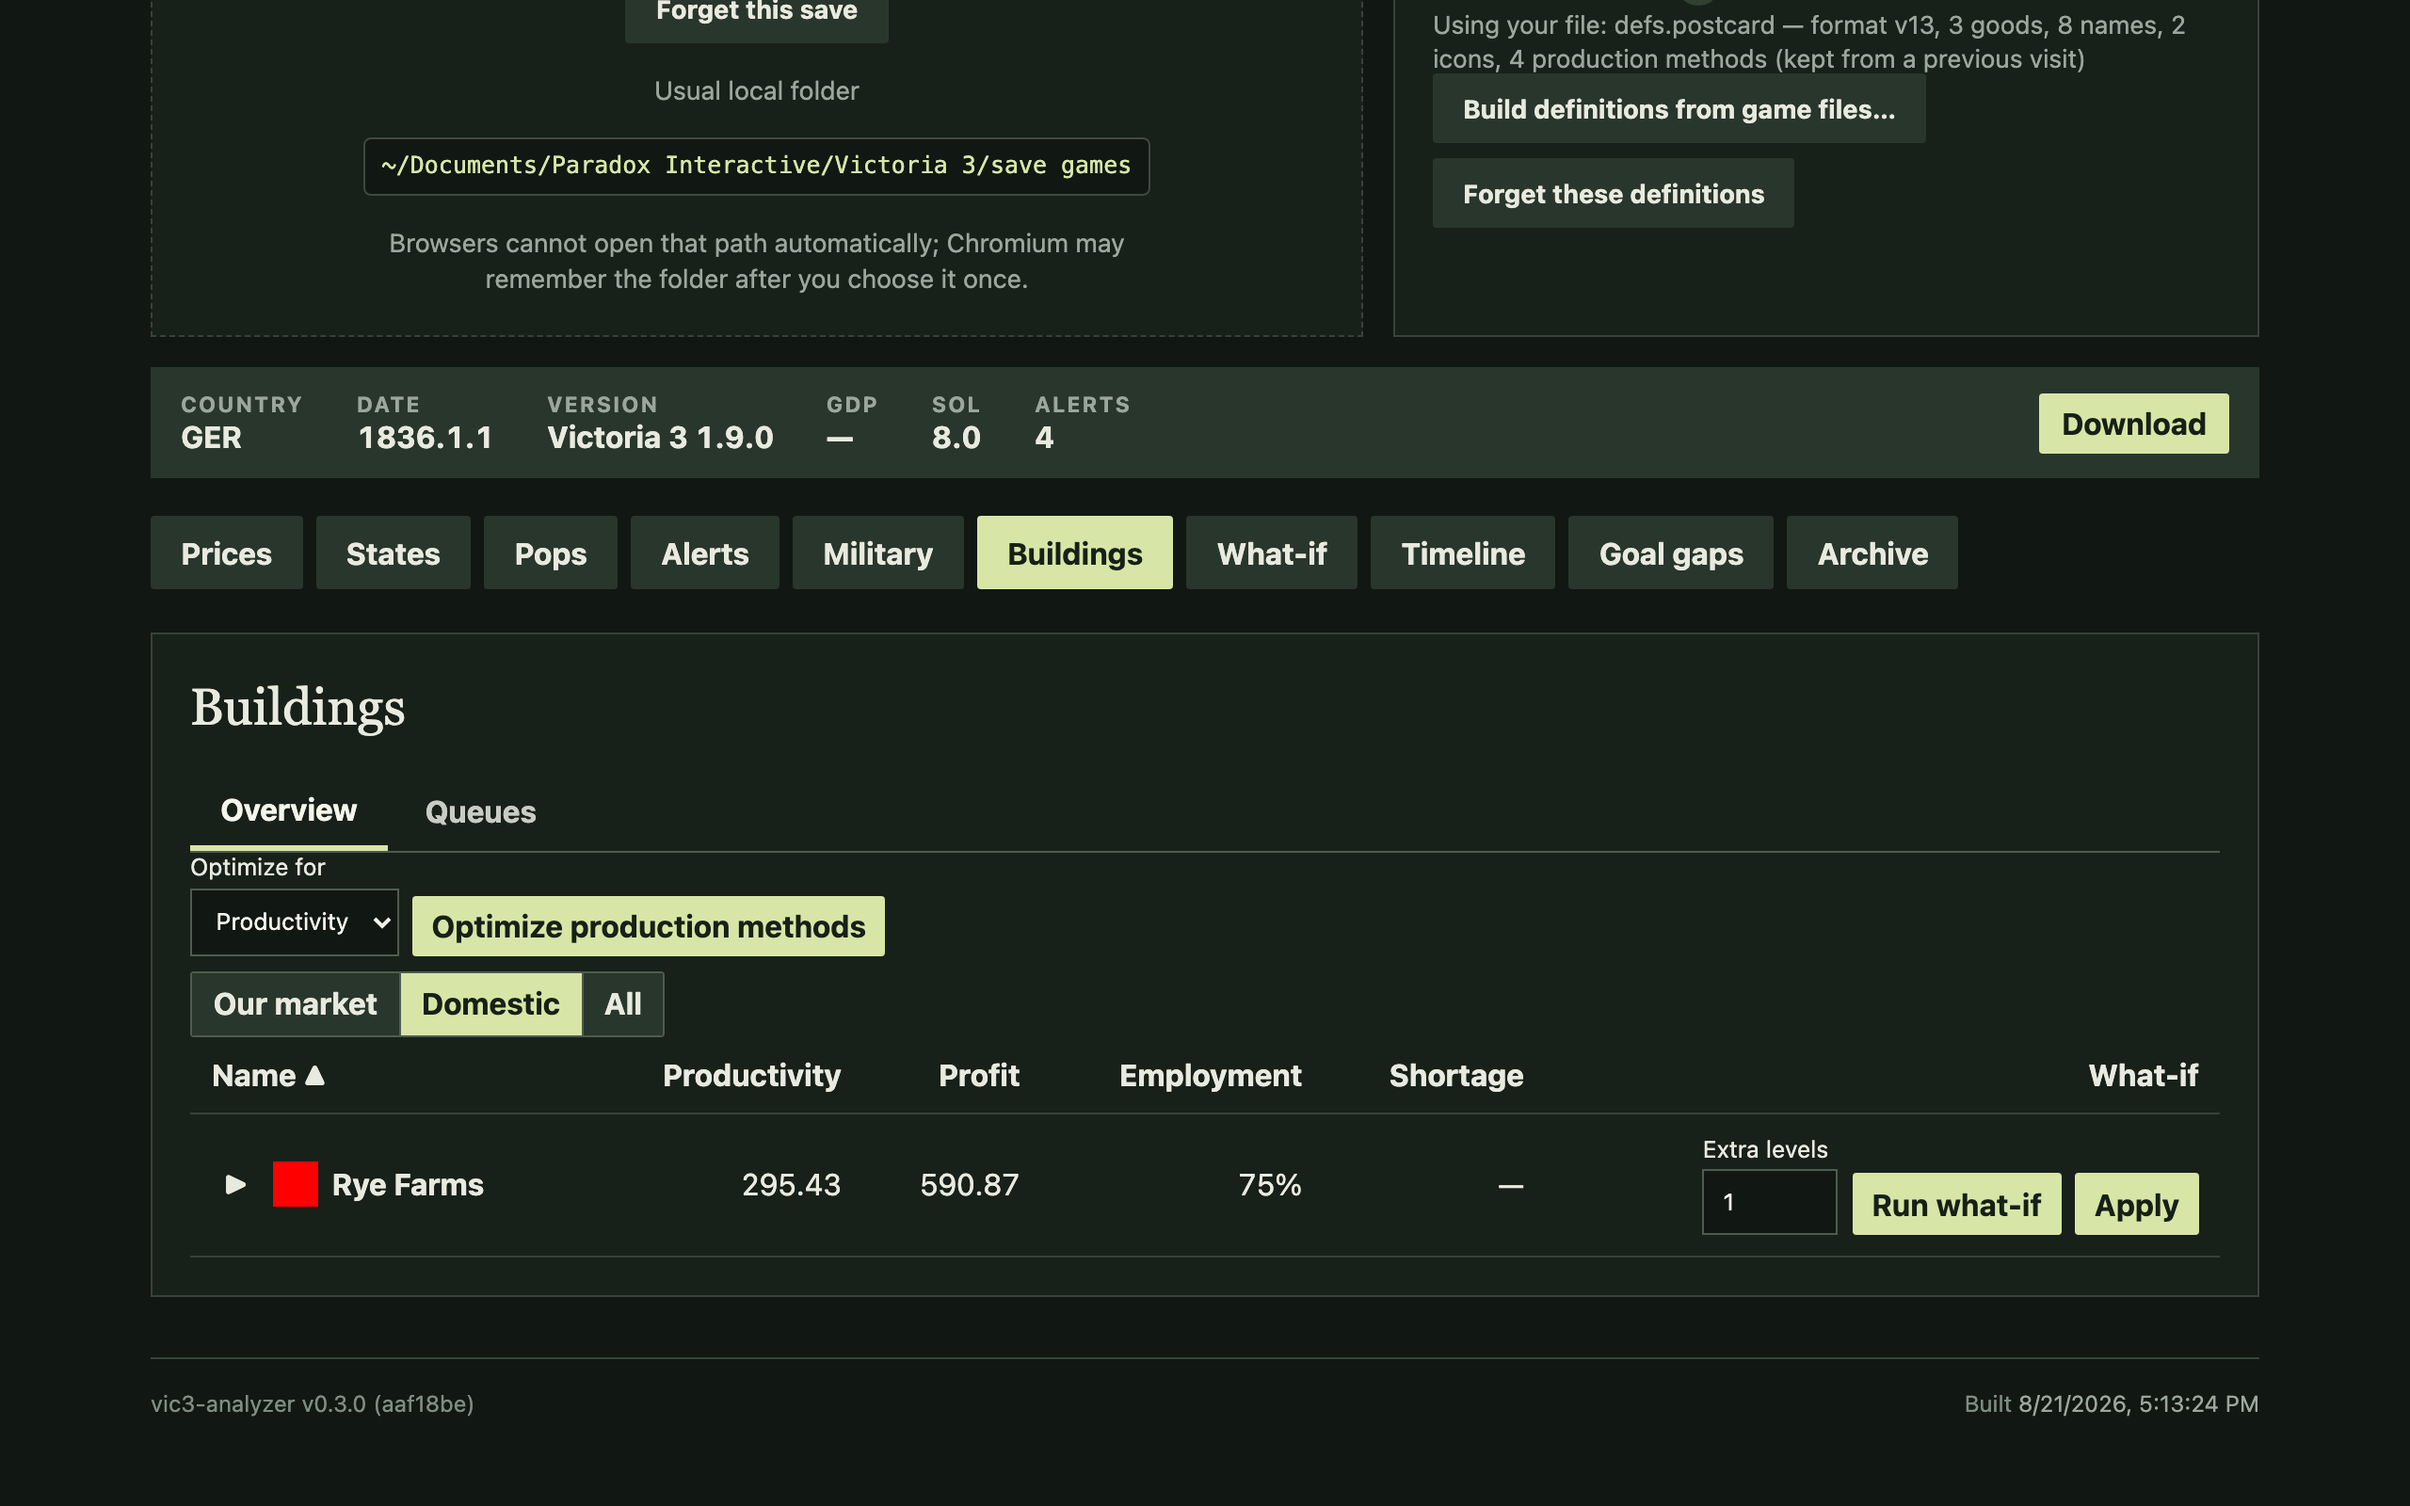
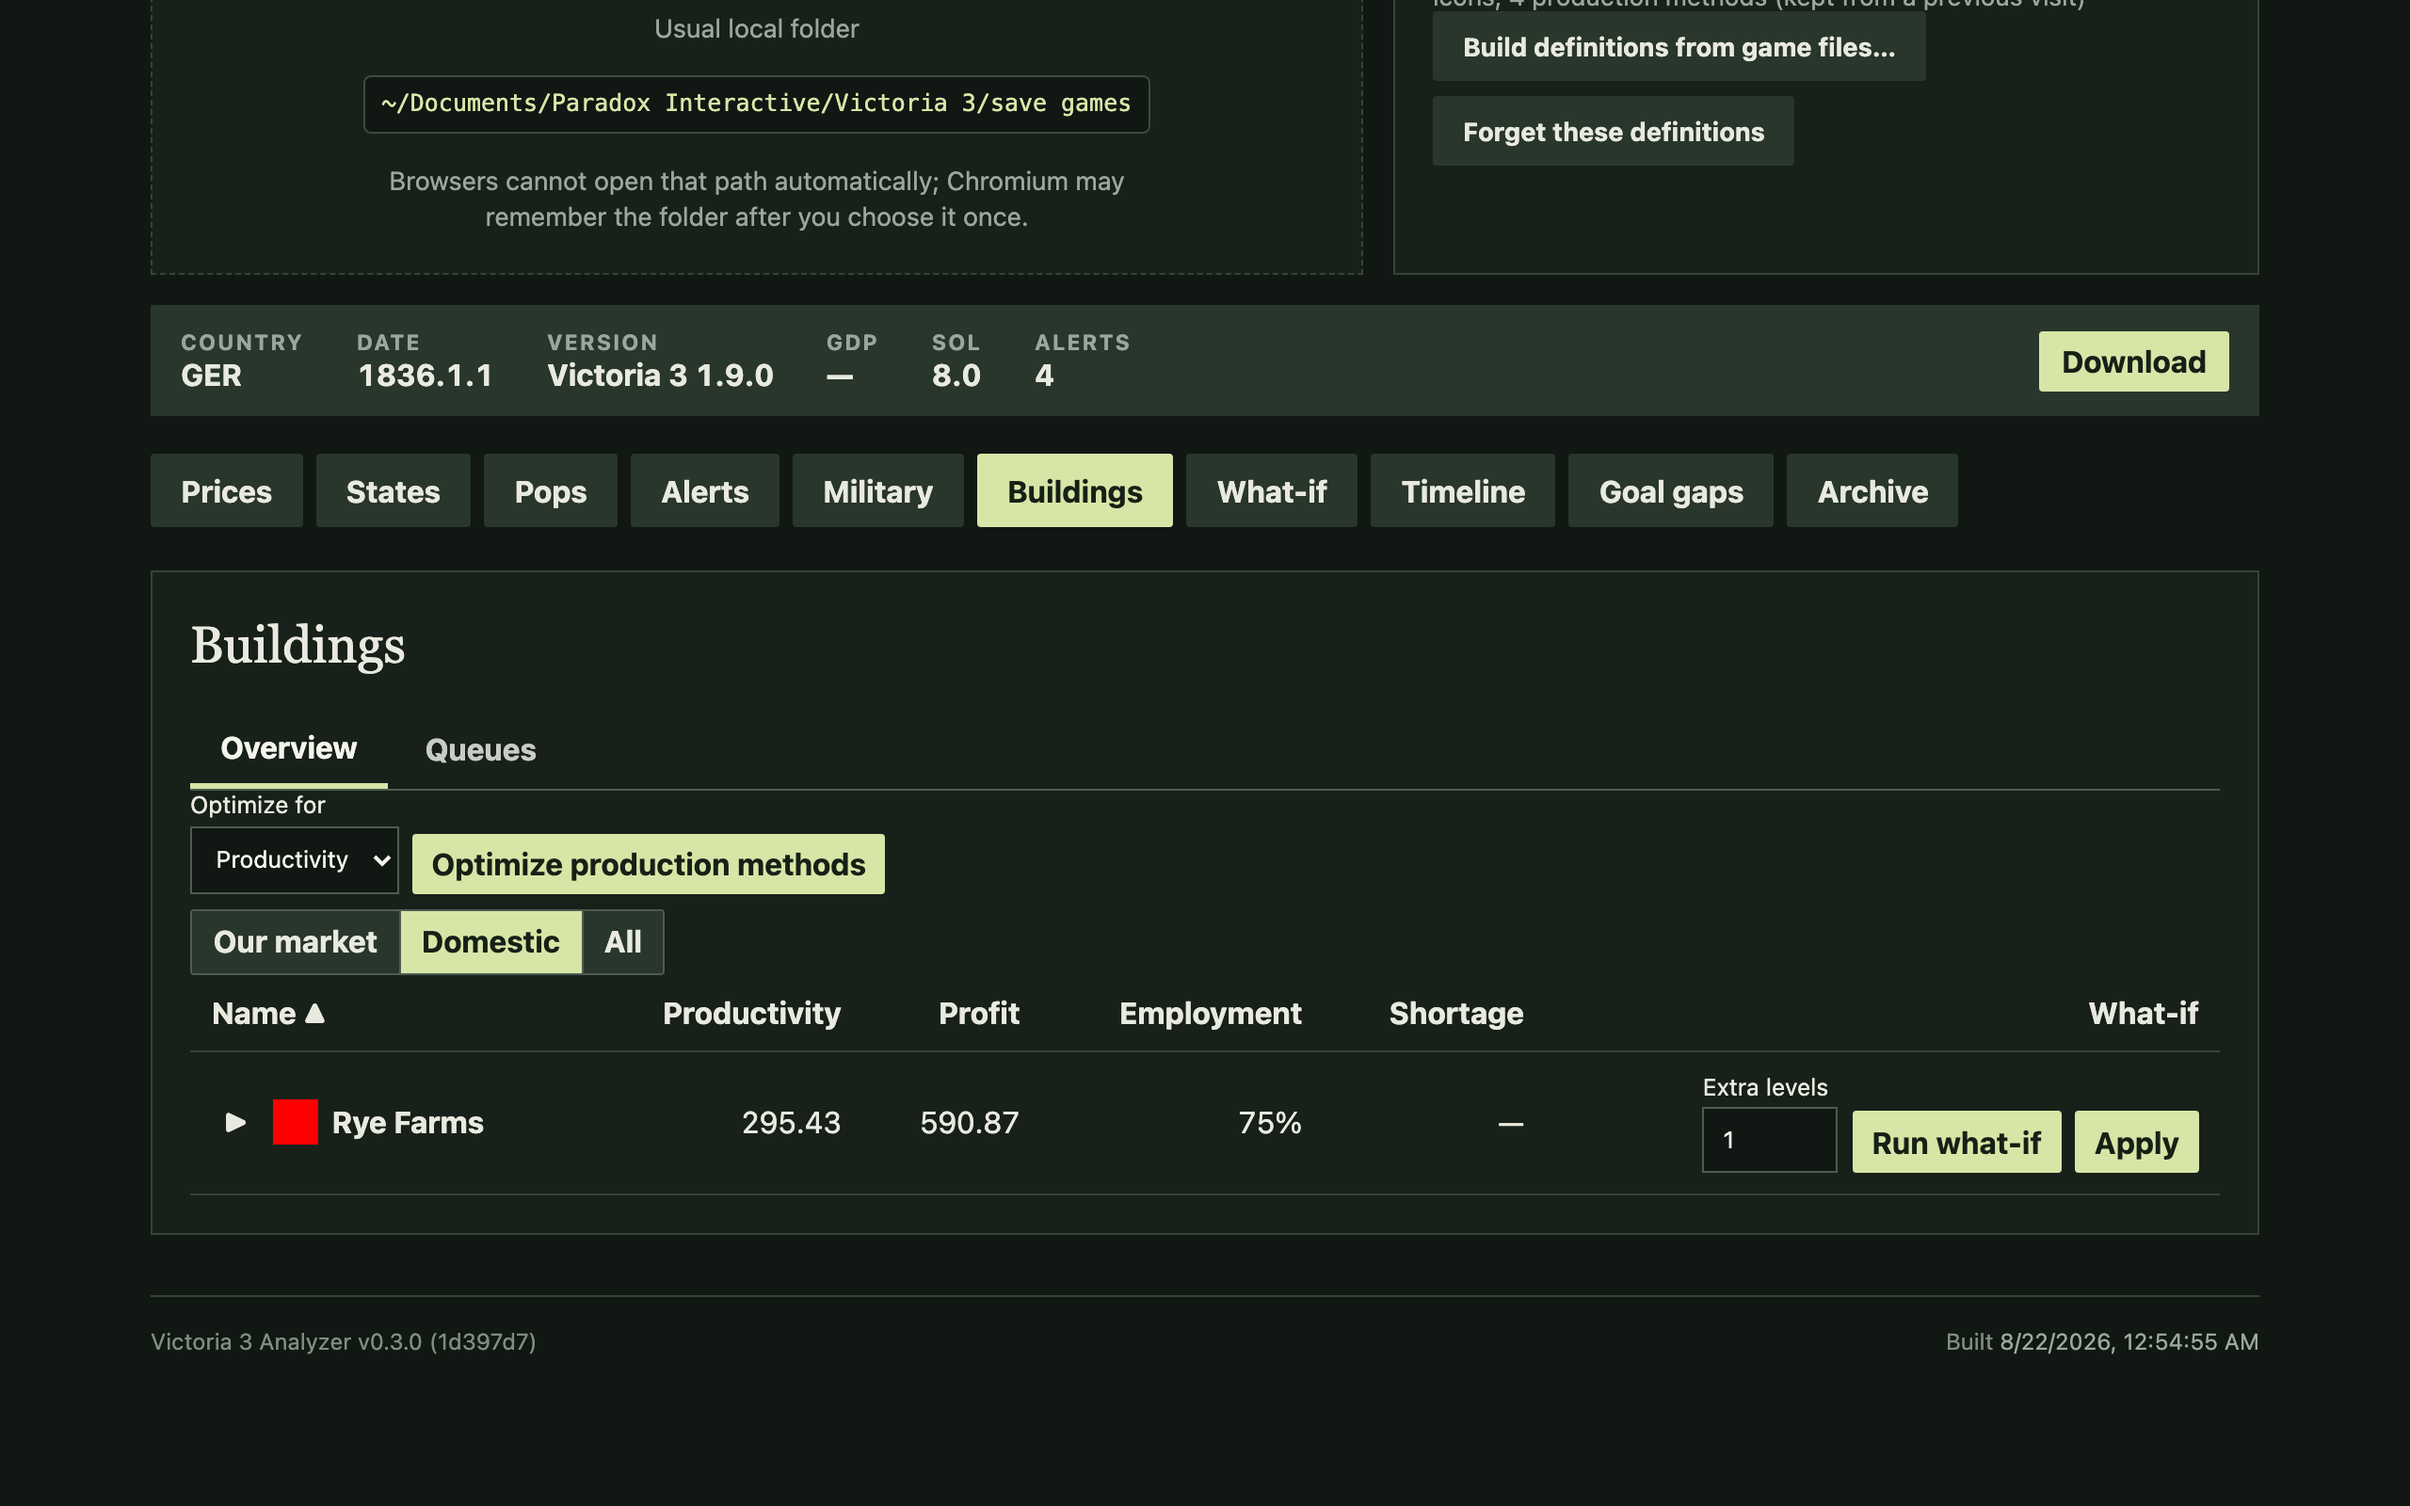
Fix top pixel cutoff on web screenshots and remove WebAssembly/IndexedDB technical jargon

diff --git a/README.md b/README.md
@@ -29,7 +29,7 @@ Victoria 3 gives you immense freedom, but managing a 19th-century industrial emp
 ### 1. In-Browser Web App (Zero Install)
 * **Live Demo:** [https://jmalicki.github.io/vic3-analyzer/](https://jmalicki.github.io/vic3-analyzer/)
 * Drag and drop your `.v3` save and your local `Victoria 3/game` folder.
-* **100% Client-Side:** Everything parses and solves locally inside your browser via WebAssembly (`wasm-bindgen`) and IndexedDB. Saves, definitions, and tokens are **never uploaded** to any server.
+* **100% Client-Side & Private:** Everything runs locally inside your browser and stays in your browser's private local storage. Saves, game definitions, and campaigns are **never uploaded** to any server.
 
 ![What-If Simulator — Live price re-solve after building deltas](docs/assets/web-what-if.png)
 ![Goal Gaps — War readiness checklist](docs/assets/web-gaps-war.png)
